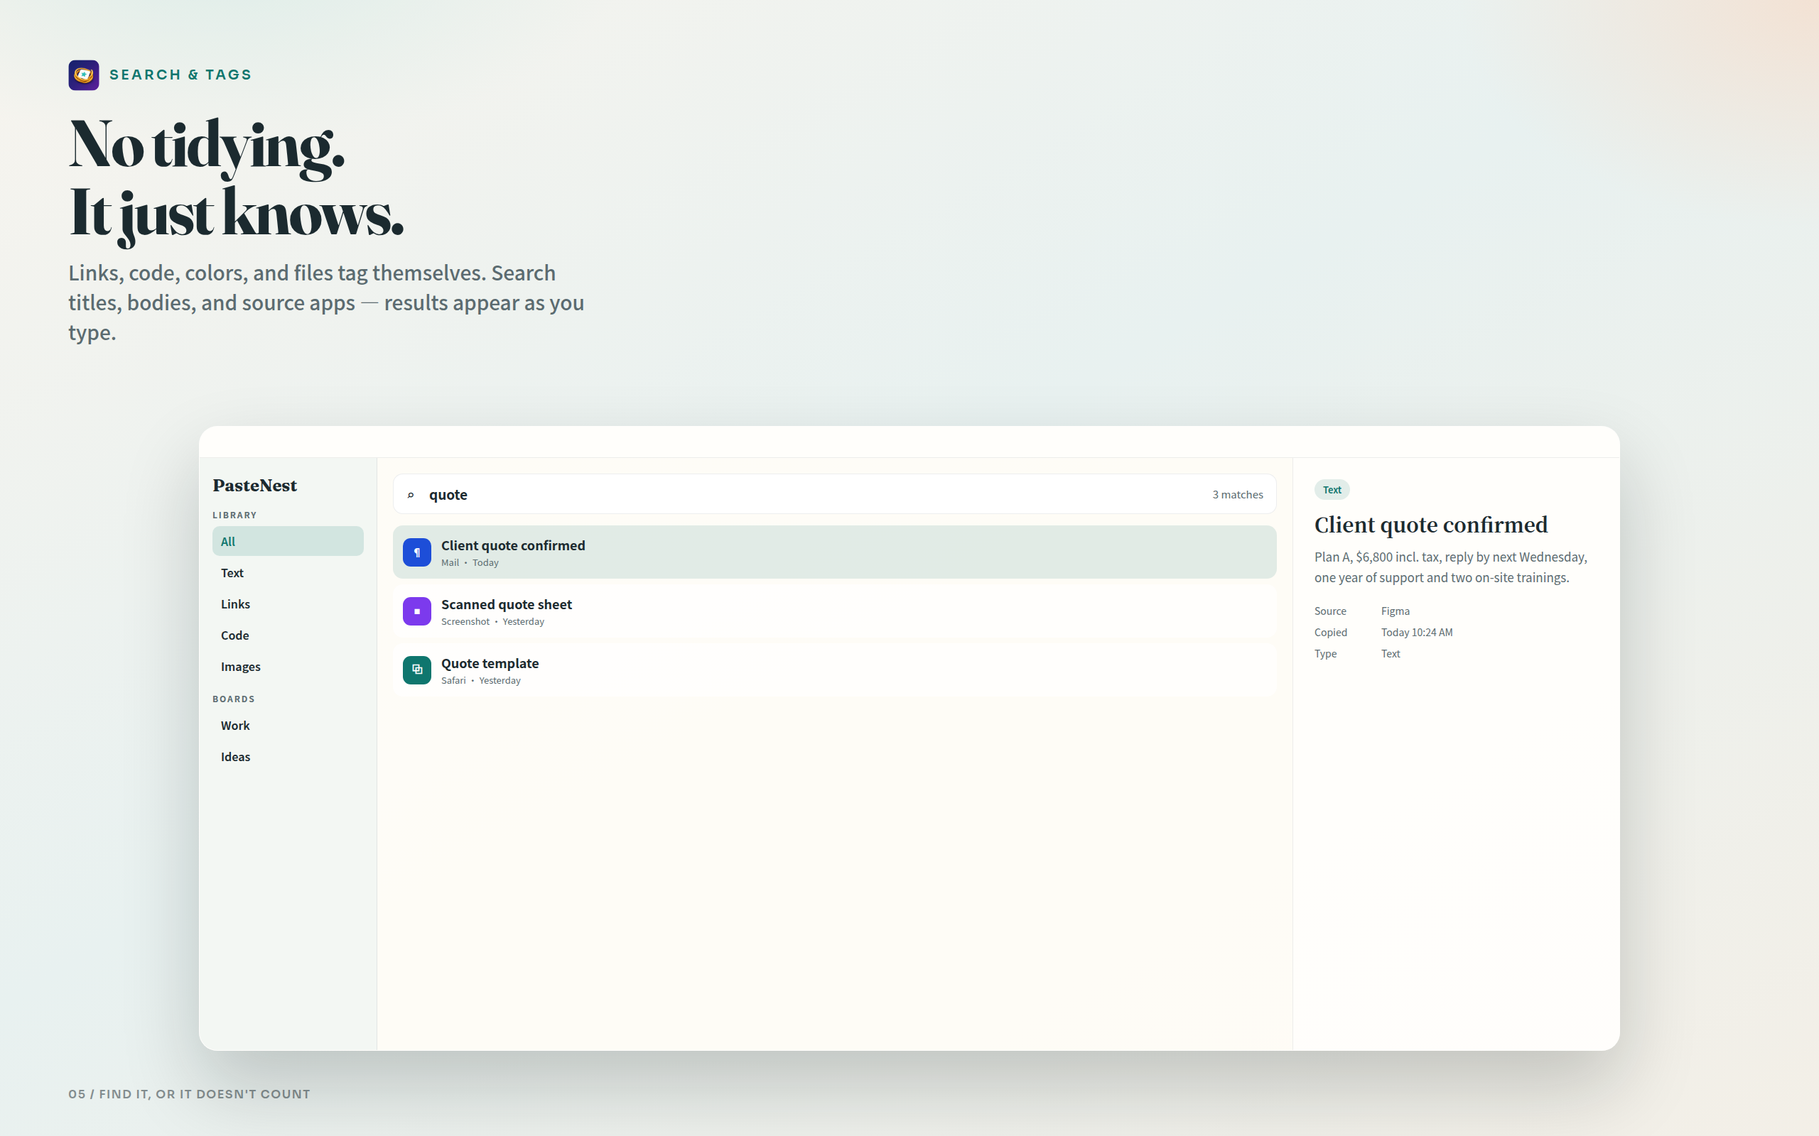
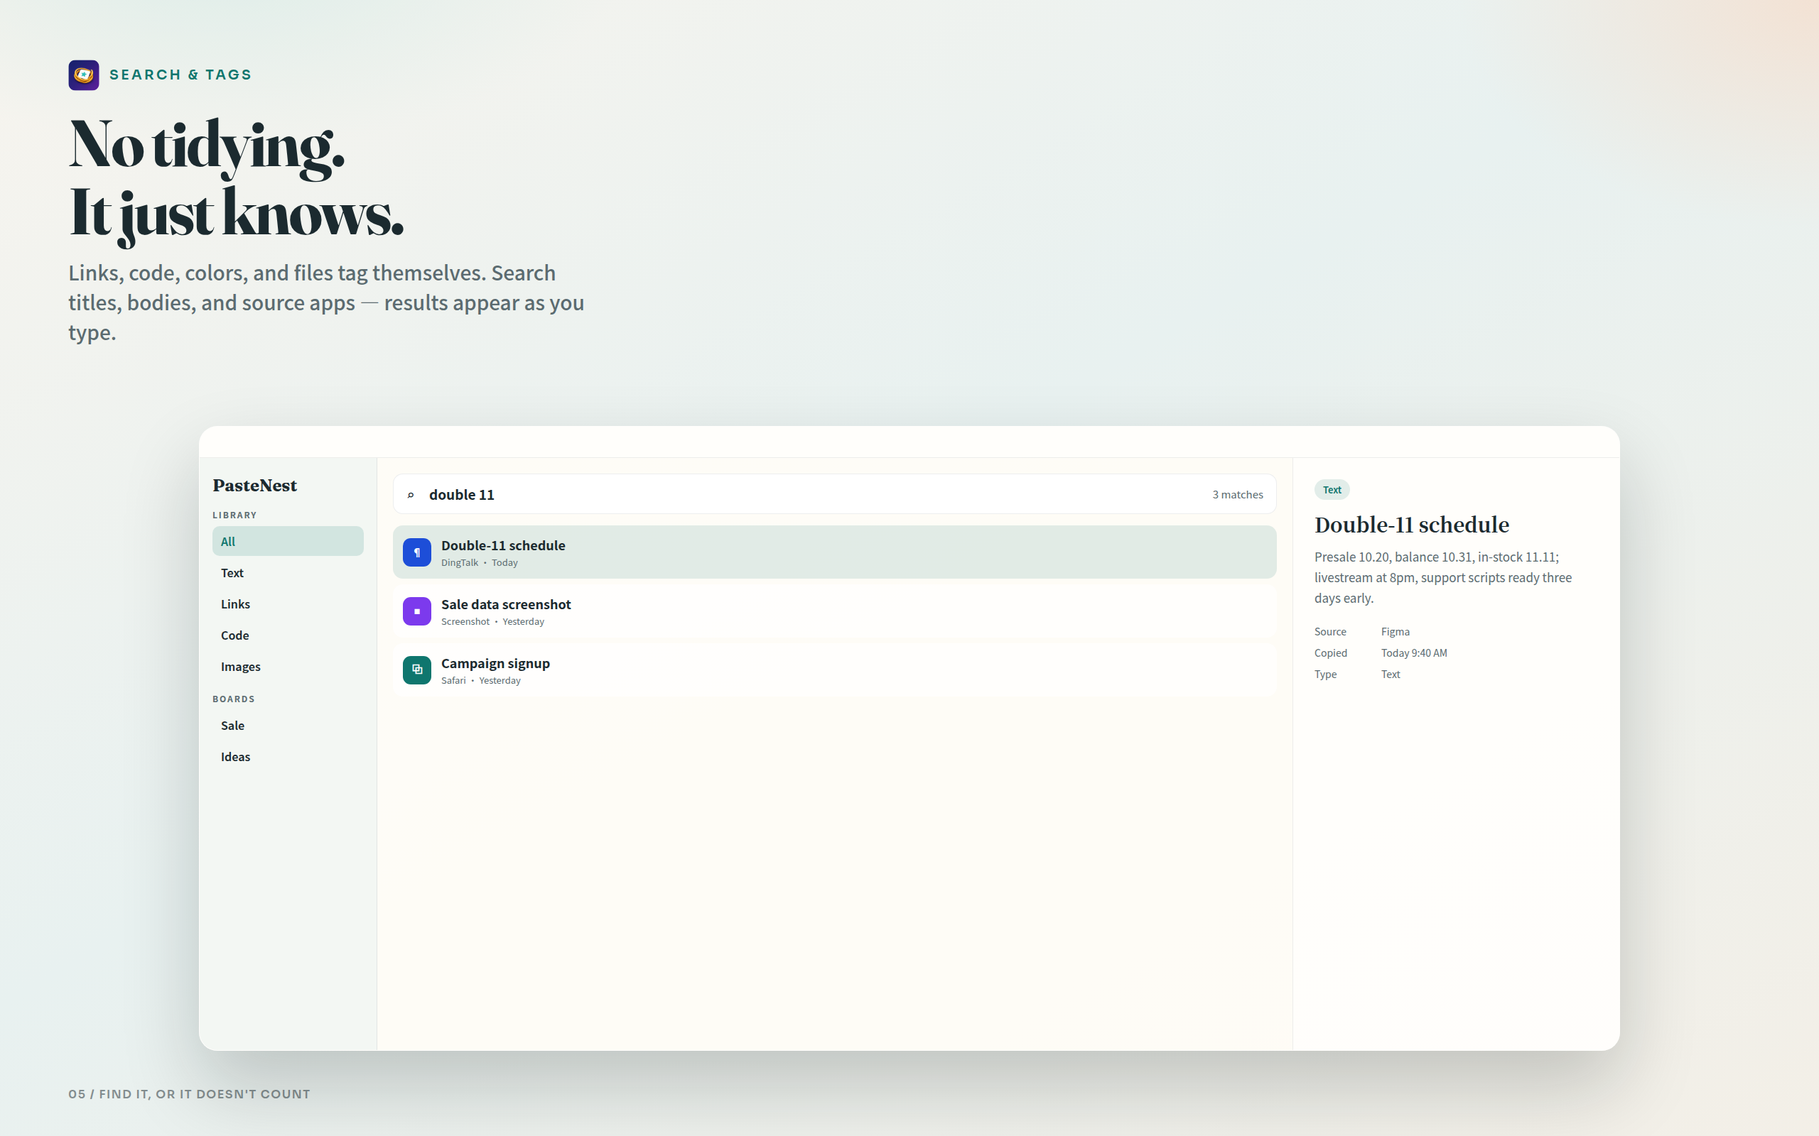
Recast App Store demo content around e-commerce operations.
Swap the generic workday for a seller's thread (rival product page,
bulk reprice script, support quick reply, sale-red swatch, sales
dashboard OCR, Double-11 schedule) so the boards speak to operators.

Changed region(s): [[0.7188, 0.4375, 0.875, 0.5938], [0.25, 0.5312, 0.3125, 0.5938], [0.25, 0.4688, 0.3125, 0.5]]

diff --git a/docs/app-store/artboard.html b/docs/app-store/artboard.html
@@ -112,7 +112,7 @@
     #b1 .ccard .cbody { flex: 1; margin-top: 14px; font-size: 15px; line-height: 1.5; color: var(--ink); overflow: hidden; }
     #b1 .ccard .cfoot { margin-top: 12px; display: flex; align-items: center; justify-content: space-between; }
     #b1 .chip { display: inline-flex; padding: 5px 12px; border-radius: 999px; font-size: 13px; font-weight: 600; background: rgba(15,118,110,.12); color: var(--accent); }
-    #b1 .swatch { height: 96px; border-radius: 12px; background: linear-gradient(135deg,#0f766e,#0d9488); margin-top: 14px; }
+    #b1 .swatch { height: 96px; border-radius: 12px; background: linear-gradient(135deg,#e07a5f,#c65a3e); margin-top: 14px; }
     #b1 .thumb { height: 130px; border-radius: 12px; margin-top: 14px; background:
       linear-gradient(180deg, rgba(15,118,110,.0), rgba(15,118,110,.16)),
       repeating-linear-gradient(0deg,#eef4f3 0 22px,#e2eceb 22px 23px); border:1px solid var(--line); position: relative; }
@@ -439,83 +439,83 @@
       "zh-Hans": {
         1: { k: "PasteNest", h: "复制过的，<br>都还在。", s: "菜单栏里的剪贴板巢穴。文字、链接、图片、代码、颜色，自动收好，一键回来。", sync: "已同步 · 刚刚", c: "01  /  你的第二块剪贴板",
              cards: [
-               { badge: "链", bg: "#0f766e", title: "Q3 复盘文档", meta: "Safari · 链接", chip: "链接", star: 1, body: "https://docs.example.com/q3-review — 留存那节要再补数据" },
-               { badge: "码", bg: "#059669", title: "git log --oneline", meta: "Terminal · 代码", chip: "代码", code: true },
-               { badge: "文", bg: "#1d4ed8", title: "客户报价确认", meta: "邮件 · 文本", chip: "文本", body: "方案 A 含税 ¥48,000，下周三前回复，含一年维护。" },
-               { badge: "色", bg: "#0f766e", title: "#0F766E 品牌绿", meta: "Figma · 颜色", chip: "颜色", swatch: true },
-               { badge: "片", bg: "#7c3aed", title: "数据看板截图", meta: "截图 · 可识字", chip: "图片", thumb: true },
-               { badge: "文", bg: "#e07a5f", title: "周一例会纪要", meta: "Slack · 文本", chip: "文本", body: "版本周五冻结；文案走三遍；上线后看一周留存。" }
+               { badge: "链", bg: "#0f766e", title: "竞品详情页", meta: "Safari · 链接", chip: "链接", star: 1, body: "https://shop.example.com/item — 主图第 3 张是卖点" },
+               { badge: "码", bg: "#059669", title: "批量改价脚本", meta: "Terminal · 代码", chip: "代码", code: true },
+               { badge: "文", bg: "#1d4ed8", title: "客服快捷回复", meta: "旺旺 · 文本", chip: "文本", body: "亲，现货 48 小时内发，支持七天无理由，拍前领券更划算。" },
+               { badge: "色", bg: "#e07a5f", title: "#E07A5F 大促红", meta: "Figma · 颜色", chip: "颜色", swatch: true },
+               { badge: "片", bg: "#7c3aed", title: "生意参谋数据", meta: "截图 · 可识字", chip: "图片", thumb: true },
+               { badge: "文", bg: "#0f766e", title: "双 11 排期表", meta: "钉钉 · 文本", chip: "文本", body: "10.20 预售，10.31 尾款，11.11 现货；直播排到晚 8 点。" }
              ] },
         2: { k: "全局快捷键", h: "按一下，<br>它就来了。", s: "底部货架、主窗口、截图各有独立快捷键。录下即刻生效，被占用会提醒，一键恢复默认。", k2: "唤出底部货架 · 回车粘贴", c: "02  /  手不离开键盘",
              setH: "全局快捷键", r1: "唤出剪贴板面板", r2: "唤出主窗口", r3: "截图（区域）", live: "已生效" },
         3: { k: "区域截图", h: "截图像发一条消息。", s: "冻结屏幕，拖出选区，矩形 / 箭头 / 画笔 / 马赛克 / 文字标注，确认后进入剪贴板与历史。", c: "03  /  标注完，直接复用" },
         4: { k: "识别文字", h: "图里的字，<br>也能搜。", s: "本机 Vision 识别中英文。可选复制，或只留文字不要图。链接会自动变成链接条目。", c: "04  /  字留在你的电脑上",
-             ocrH: "识别到的文字", ocrN: "36 字", ocrT: "报销单<br>打车费 ¥86.00<br>2026-09-18 14:20<br><span class=\"sel\">发票号 24403170</span>", cancel: "取消", copy: "复制" },
+             ocrH: "识别到的文字", ocrN: "34 字", ocrT: "生意参谋<br>支付转化率 4.2%<br>访客 12,480<br><span class=\"sel\">SKU: SP-8842</span>", cancel: "取消", copy: "复制" },
         5: { k: "搜索与分类", h: "不用整理，<br>它自己认得。", s: "链接、代码、颜色、文件自动打标。搜索标题、正文、来源应用，实时出结果。", c: "05  /  找得到，才算数",
-             lib: "资料库", brd: "看板", nav: ["全部","文本","链接","代码","图片","工作","灵感"], q: "报价", hits: "3 条命中",
+             lib: "资料库", brd: "看板", nav: ["全部","文本","链接","代码","图片","大促","灵感"], q: "双 11", hits: "3 条命中",
              rows: [
-               { badge: "文", bg: "#1d4ed8", title: "客户报价确认", meta: "邮件 · 今天", on: 1 },
-               { badge: "片", bg: "#7c3aed", title: "报价单扫描件", meta: "截图 · 昨天" },
-               { badge: "链", bg: "#0f766e", title: "报价模板", meta: "Safari · 昨天" }
+               { badge: "文", bg: "#1d4ed8", title: "双 11 排期表", meta: "钉钉 · 今天", on: 1 },
+               { badge: "片", bg: "#7c3aed", title: "大促数据截图", meta: "截图 · 昨天" },
+               { badge: "链", bg: "#0f766e", title: "活动报名入口", meta: "Safari · 昨天" }
              ],
-             pvChip: "文本", pvTitle: "客户报价确认", pvBody: "方案 A 含税 ¥48,000，下周三前回复，含一年维护与两次现场培训。", m1: "来源", m2: "时间", m2v: "今天 10:24", m3: "类型", m3v: "文本" },
+             pvChip: "文本", pvTitle: "双 11 排期表", pvBody: "10.20 预售，10.31 尾款，11.11 现货；直播排到晚 8 点，客服话术提前三天过。", m1: "来源", m2: "时间", m2v: "今天 09:40", m3: "类型", m3v: "文本" },
         6: { k: "收藏与隐私", h: "重要的，<br>留下来。", s: "收藏长期保存，其余按你设定的天数自动清理。iCloud 可选，数据走你的 Apple ID，我们碰不到。", p1: "收藏夹独立面板，可打标签", p2: "未收藏内容默认 3 天后清理", p3: "无广告、无追踪、无账号体系", c: "06  /  只存在你的 Mac 上",
-             dTitle: "客户报价确认", dBody: "方案 A 含税 ¥48,000，下周三前回复，含一年维护与两次现场培训。联系人：王经理。", t1: "工作", t2: "客户", t3: "长期保存",
-             s1: "Safari · 链接", s2: "Terminal · 代码", s3: "截图 · 可识字", s3t: "数据看板截图" }
+             dTitle: "客服快捷回复", dBody: "亲，现货 48 小时内发，支持七天无理由，拍前领券更划算。退换货运费险已开。", t1: "大促", t2: "客服", t3: "长期保存",
+             s1: "Safari · 链接", s2: "Terminal · 代码", s3: "截图 · 可识字", s3t: "生意参谋数据" }
       },
       "zh-Hant": {
         1: { k: "PasteNest", h: "複製過的，<br>都還在。", s: "選單列裡的剪貼板巢穴。文字、連結、圖片、程式碼、顏色，自動收好，一鍵回來。", sync: "已同步 · 剛剛", c: "01  /  你的第二塊剪貼板",
              cards: [
-               { badge: "鏈", bg: "#0f766e", title: "Q3 復盤文件", meta: "Safari · 連結", chip: "連結", star: 1, body: "https://docs.example.com/q3-review — 留存那節要再補資料" },
-               { badge: "碼", bg: "#059669", title: "git log --oneline", meta: "Terminal · 程式碼", chip: "程式碼", code: true },
-               { badge: "文", bg: "#1d4ed8", title: "客戶報價確認", meta: "郵件 · 文字", chip: "文字", body: "方案 A 含稅 ¥48,000，下週三前回覆，含一年維護。" },
-               { badge: "色", bg: "#0f766e", title: "#0F766E 品牌綠", meta: "Figma · 顏色", chip: "顏色", swatch: true },
-               { badge: "片", bg: "#7c3aed", title: "資料看板截圖", meta: "截圖 · 可識字", chip: "圖片", thumb: true },
-               { badge: "文", bg: "#e07a5f", title: "週一例會紀要", meta: "Slack · 文字", chip: "文字", body: "版本週五凍結；文案走三遍；上線後看一週留存。" }
+               { badge: "鏈", bg: "#0f766e", title: "競品詳情頁", meta: "Safari · 連結", chip: "連結", star: 1, body: "https://shop.example.com/item — 主圖第 3 張是賣點" },
+               { badge: "碼", bg: "#059669", title: "批次改價腳本", meta: "Terminal · 程式碼", chip: "程式碼", code: true },
+               { badge: "文", bg: "#1d4ed8", title: "客服快捷回覆", meta: "旺旺 · 文字", chip: "文字", body: "親，現貨 48 小時內發，支援七天無理由，拍前領券更划算。" },
+               { badge: "色", bg: "#e07a5f", title: "#E07A5F 大促紅", meta: "Figma · 顏色", chip: "顏色", swatch: true },
+               { badge: "片", bg: "#7c3aed", title: "生意參謀資料", meta: "截圖 · 可識字", chip: "圖片", thumb: true },
+               { badge: "文", bg: "#0f766e", title: "雙 11 排期表", meta: "釘釘 · 文字", chip: "文字", body: "10.20 預售，10.31 尾款，11.11 現貨；直播排到晚 8 點。" }
              ] },
         2: { k: "全域快捷鍵", h: "按一下，<br>它就來了。", s: "底部貨架、主視窗、截圖各有獨立快捷鍵。錄下即刻生效，被佔用會提醒，一鍵恢復預設。", k2: "喚出底部貨架 · 回車貼上", c: "02  /  手不離開鍵盤",
              setH: "全域快捷鍵", r1: "喚出剪貼板面板", r2: "喚出主視窗", r3: "截圖（區域）", live: "已生效" },
         3: { k: "區域截圖", h: "截圖像發一條訊息。", s: "凍結螢幕，拖出選區，矩形 / 箭頭 / 畫筆 / 馬賽克 / 文字標註，確認後進入剪貼板與歷史。", c: "03  /  標註完，直接複用" },
         4: { k: "辨識文字", h: "圖裡的字，<br>也能搜。", s: "本機 Vision 辨識中英文。可選複製，或只留文字不要圖。連結會自動變成連結條目。", c: "04  /  字留在你的電腦上",
-             ocrH: "辨識到的文字", ocrN: "36 字", ocrT: "報銷單<br>打車費 ¥86.00<br>2026-09-18 14:20<br><span class=\"sel\">發票號 24403170</span>", cancel: "取消", copy: "複製" },
+             ocrH: "辨識到的文字", ocrN: "34 字", ocrT: "生意參謀<br>支付轉化率 4.2%<br>訪客 12,480<br><span class=\"sel\">SKU: SP-8842</span>", cancel: "取消", copy: "複製" },
         5: { k: "搜尋與分類", h: "不用整理，<br>它自己認得。", s: "連結、程式碼、顏色、檔案自動打標。搜尋標題、正文、來源應用，即時出結果。", c: "05  /  找得到，才算數",
-             lib: "資料庫", brd: "看板", nav: ["全部","文字","連結","程式碼","圖片","工作","靈感"], q: "報價", hits: "3 筆命中",
+             lib: "資料庫", brd: "看板", nav: ["全部","文字","連結","程式碼","圖片","大促","靈感"], q: "雙 11", hits: "3 筆命中",
              rows: [
-               { badge: "文", bg: "#1d4ed8", title: "客戶報價確認", meta: "郵件 · 今天", on: 1 },
-               { badge: "片", bg: "#7c3aed", title: "報價單掃描件", meta: "截圖 · 昨天" },
-               { badge: "鏈", bg: "#0f766e", title: "報價範本", meta: "Safari · 昨天" }
+               { badge: "文", bg: "#1d4ed8", title: "雙 11 排期表", meta: "釘釘 · 今天", on: 1 },
+               { badge: "片", bg: "#7c3aed", title: "大促資料截圖", meta: "截圖 · 昨天" },
+               { badge: "鏈", bg: "#0f766e", title: "活動報名入口", meta: "Safari · 昨天" }
              ],
-             pvChip: "文字", pvTitle: "客戶報價確認", pvBody: "方案 A 含稅 ¥48,000，下週三前回覆，含一年維護與兩次現場培訓。", m1: "來源", m2: "時間", m2v: "今天 10:24", m3: "類型", m3v: "文字" },
+             pvChip: "文字", pvTitle: "雙 11 排期表", pvBody: "10.20 預售，10.31 尾款，11.11 現貨；直播排到晚 8 點，客服話術提前三天過。", m1: "來源", m2: "時間", m2v: "今天 09:40", m3: "類型", m3v: "文字" },
         6: { k: "收藏與隱私", h: "重要的，<br>留下來。", s: "收藏長期保存，其餘按你設定的天數自動清理。iCloud 可選，資料走你的 Apple ID，我們碰不到。", p1: "收藏夾獨立面板，可打標籤", p2: "未收藏內容預設 3 天後清理", p3: "無廣告、無追蹤、無帳號體系", c: "06  /  只存在你的 Mac 上",
-             dTitle: "客戶報價確認", dBody: "方案 A 含稅 ¥48,000，下週三前回覆，含一年維護與兩次現場培訓。聯絡人：王經理。", t1: "工作", t2: "客戶", t3: "長期保存",
-             s1: "Safari · 連結", s2: "Terminal · 程式碼", s3: "截圖 · 可識字", s3t: "資料看板截圖" }
+             dTitle: "客服快捷回覆", dBody: "親，現貨 48 小時內發，支援七天無理由，拍前領券更划算。退換貨運費險已開。", t1: "大促", t2: "客服", t3: "長期保存",
+             s1: "Safari · 連結", s2: "Terminal · 程式碼", s3: "截圖 · 可識字", s3t: "生意參謀資料" }
       },
       en: {
         1: { k: "PasteNest", h: "Everything you copy,<br>still here.", s: "A clipboard nest in your menu bar. Text, links, images, code, and colors — tucked away, one tap back.", sync: "Synced · just now", c: "01  /  A second clipboard",
              cards: [
-               { badge: "⧉", bg: "#0f766e", title: "Q3 review doc", meta: "Safari · Link", chip: "Link", star: 1, body: "https://docs.example.com/q3-review — add retention numbers" },
-               { badge: "‹›", bg: "#059669", title: "git log --oneline", meta: "Terminal · Code", chip: "Code", code: true },
-               { badge: "¶", bg: "#1d4ed8", title: "Client quote confirmed", meta: "Mail · Text", chip: "Text", body: "Plan A, $6,800 incl. tax, reply by next Wednesday, one year of support." },
-               { badge: "●", bg: "#0f766e", title: "#0F766E brand green", meta: "Figma · Color", chip: "Color", swatch: true },
-               { badge: "▦", bg: "#7c3aed", title: "Dashboard screenshot", meta: "Screenshot · OCR", chip: "Image", thumb: true },
-               { badge: "¶", bg: "#e07a5f", title: "Monday standup", meta: "Slack · Text", chip: "Text", body: "Freeze Friday; run the copy three times; watch week-one retention." }
+               { badge: "⧉", bg: "#0f766e", title: "Rival product page", meta: "Safari · Link", chip: "Link", star: 1, body: "https://shop.example.com/item — hero image 3 is the hook" },
+               { badge: "‹›", bg: "#059669", title: "Bulk reprice script", meta: "Terminal · Code", chip: "Code", code: true },
+               { badge: "¶", bg: "#1d4ed8", title: "Support quick reply", meta: "Chat · Text", chip: "Text", body: "In stock, ships in 48h, 7-day returns, grab the coupon first." },
+               { badge: "●", bg: "#e07a5f", title: "#E07A5F sale red", meta: "Figma · Color", chip: "Color", swatch: true },
+               { badge: "▦", bg: "#7c3aed", title: "Sales dashboard shot", meta: "Screenshot · OCR", chip: "Image", thumb: true },
+               { badge: "¶", bg: "#0f766e", title: "Double-11 schedule", meta: "DingTalk · Text", chip: "Text", body: "Presale 10.20, balance 10.31, in-stock 11.11; livestream at 8pm." }
              ] },
         2: { k: "Global hotkeys", h: "One press,<br>and it's here.", s: "The shelf, main window, and screenshot each get their own hotkey. Changes apply instantly; taken combos are flagged; one click restores defaults.", k2: "Show the shelf · Enter pastes", c: "02  /  Hands stay on the keyboard",
              setH: "Global hotkeys", r1: "Show clipboard shelf", r2: "Show main window", r3: "Screenshot (region)", live: "Active" },
         3: { k: "Region screenshot", h: "Screenshot like sending a message.", s: "Freeze the screen, drag a region, mark it up with rectangles, arrows, pen, mosaic, or text — it lands in your clipboard and history.", c: "03  /  Annotate, then reuse" },
         4: { k: "Recognize text", h: "Words in images,<br>searchable.", s: "On-device Vision reads Chinese and English. Copy what you select, or keep only the text. Links become link items automatically.", c: "04  /  Text stays on your Mac",
-             ocrH: "Recognized text", ocrN: "12 words", ocrT: "Expense report<br>Taxi $12.40<br>2026-09-18 2:20 PM<br><span class=\"sel\">Receipt #24403170</span>", cancel: "Cancel", copy: "Copy" },
+             ocrH: "Recognized text", ocrN: "11 words", ocrT: "Sales dashboard<br>Conversion 4.2%<br>Visitors 12,480<br><span class=\"sel\">SKU: SP-8842</span>", cancel: "Cancel", copy: "Copy" },
         5: { k: "Search & tags", h: "No tidying.<br>It just knows.", s: "Links, code, colors, and files tag themselves. Search titles, bodies, and source apps — results appear as you type.", c: "05  /  Find it, or it doesn't count",
-             lib: "Library", brd: "Boards", nav: ["All","Text","Links","Code","Images","Work","Ideas"], q: "quote", hits: "3 matches",
+             lib: "Library", brd: "Boards", nav: ["All","Text","Links","Code","Images","Sale","Ideas"], q: "double 11", hits: "3 matches",
              rows: [
-               { badge: "¶", bg: "#1d4ed8", title: "Client quote confirmed", meta: "Mail · Today", on: 1 },
-               { badge: "▦", bg: "#7c3aed", title: "Scanned quote sheet", meta: "Screenshot · Yesterday" },
-               { badge: "⧉", bg: "#0f766e", title: "Quote template", meta: "Safari · Yesterday" }
+               { badge: "¶", bg: "#1d4ed8", title: "Double-11 schedule", meta: "DingTalk · Today", on: 1 },
+               { badge: "▦", bg: "#7c3aed", title: "Sale data screenshot", meta: "Screenshot · Yesterday" },
+               { badge: "⧉", bg: "#0f766e", title: "Campaign signup", meta: "Safari · Yesterday" }
              ],
-             pvChip: "Text", pvTitle: "Client quote confirmed", pvBody: "Plan A, $6,800 incl. tax, reply by next Wednesday, one year of support and two on-site trainings.", m1: "Source", m2: "Copied", m2v: "Today 10:24 AM", m3: "Type", m3v: "Text" },
+             pvChip: "Text", pvTitle: "Double-11 schedule", pvBody: "Presale 10.20, balance 10.31, in-stock 11.11; livestream at 8pm, support scripts ready three days early.", m1: "Source", m2: "Copied", m2v: "Today 9:40 AM", m3: "Type", m3v: "Text" },
         6: { k: "Saved & private", h: "What matters,<br>stays.", s: "Saved items keep forever; the rest clear after the days you set. iCloud is optional and goes through your Apple ID — we never see your data.", p1: "A separate Saved panel with tags", p2: "Unsaved items clear after 3 days", p3: "No ads, no tracking, no accounts", c: "06  /  Only on your Mac",
-             dTitle: "Client quote confirmed", dBody: "Plan A, $6,800 incl. tax, reply by next Wednesday, one year of support and two on-site trainings. Contact: Manager Wang.", t1: "Work", t2: "Client", t3: "Kept forever",
-             s1: "Safari · Link", s2: "Terminal · Code", s3: "Screenshot · OCR", s3t: "Dashboard screenshot" }
+             dTitle: "Support quick reply", dBody: "In stock, ships in 48h, 7-day returns, grab the coupon first. Return shipping insurance is on.", t1: "Sale", t2: "Support", t3: "Kept forever",
+             s1: "Safari · Link", s2: "Terminal · Code", s3: "Screenshot · OCR", s3t: "Sales dashboard shot" }
       }
     };
     const t = (L[lang] || L["zh-Hans"])[n] || L["zh-Hans"][n];
@@ -534,7 +534,7 @@
       const wrap = board.querySelector("#heroCards");
       wrap.innerHTML = t.cards.map((c) => {
         let inner = "";
-        if (c.code) inner = `<div class="code"><span class="k">$</span> git log --oneline <span class="s">-5</span><br>a1b2c3d fix: shelf paste<br>e4f5a6b feat: ocr card<br><span class="k">$</span> git push</div>`;
+        if (c.code) inner = `<div class="code"><span class="k">$</span> python3 reprice.py <span class="s">--sku SP-8842</span><br><span class="s">142 items → ¥199</span><br><span class="k">$</span> done in 3.2s</div>`;
         else if (c.swatch) inner = `<div class="swatch"></div>`;
         else if (c.thumb) inner = `<div class="thumb"></div>`;
         else inner = `<div class="cbody">${c.body || ""}</div>`;
